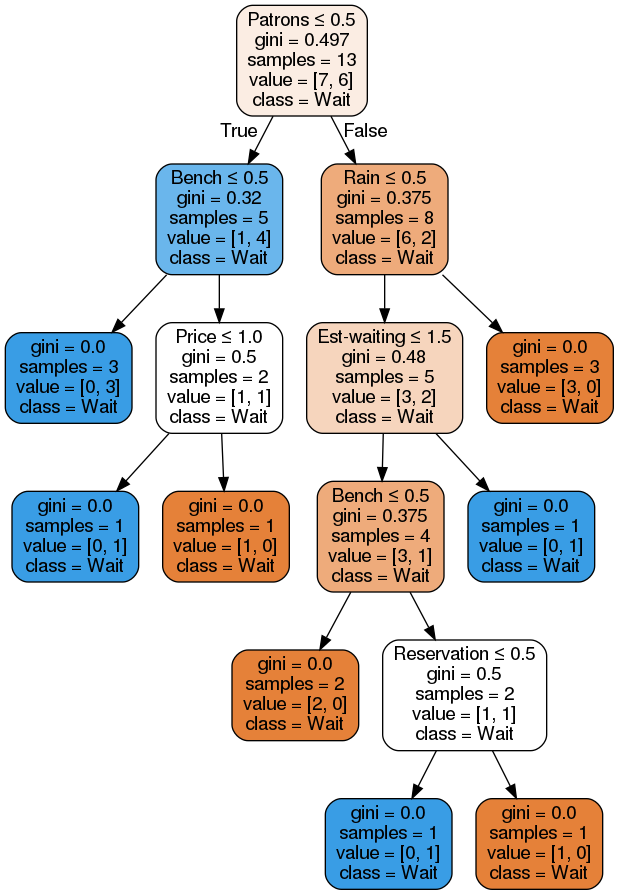
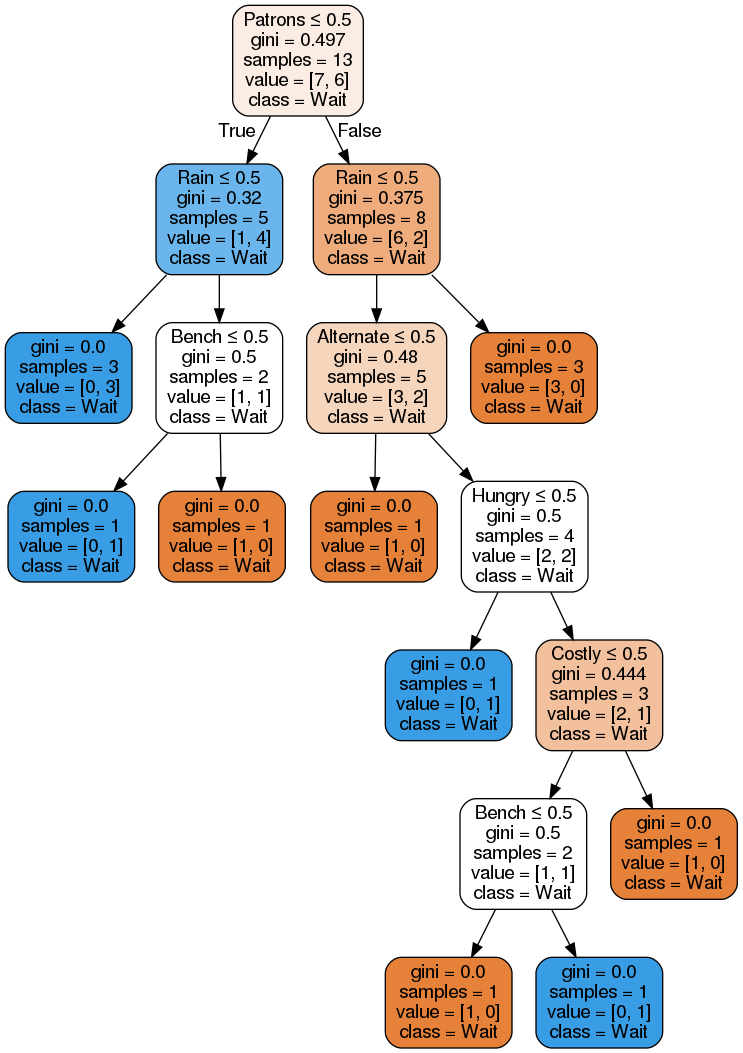
Add files via upload

diff --git a/restaurant.py b/restaurant.py
@@ -6,22 +6,22 @@ import pandas as pd
 import random
 
 data = pd.read_csv('restaurant.csv')
-feature_cols = ['Alternate','Bench','Hungry','Est-waiting','Price','Rain','Reservation','Patrons']
+feature_cols = ['Alternate','Bench','Hungry','Waiting','Costly','Rain','Reservation','Patrons']
 # convert the string categorical values into an integer code using factorize method of the pandas library.
 data['Alternate'],_ = pd.factorize(data['Alternate'])
 data['Bench'],_ = pd.factorize(data['Bench'])
 data['Hungry'],_ = pd.factorize(data['Hungry'])
 data['Patrons'],_ = pd.factorize(data['Patrons'])
-data['Price'],_ = pd.factorize(data['Price'])
+data['Costly'],_ = pd.factorize(data['Costly'])
 data['Rain'],_ = pd.factorize(data['Rain'])
 data['Reservation'],_ = pd.factorize(data['Reservation'])
-data['Est-waiting'],_ = pd.factorize(data['Est-waiting'])
+data['Waiting'],_ = pd.factorize(data['Waiting'])
 
 X = data[feature_cols]
 y = data['Wait']
 
 #Create the instance of DecisionTreeClassifier with max_depth = None i.e till leaf node & random_state=0 for maintaining state
-tree_clf = DecisionTreeClassifier(max_depth=None, random_state=0)
+tree_clf = DecisionTreeClassifier(max_depth=None, random_state=1)
 
 #train the classifier
 tree_clf.fit(X, y)
@@ -32,10 +32,12 @@ alternate = int(input("Alternate: "))
 bench = int(input("Bench: "))
 hungry = int(input("Hungry: "))
 rain = int(input("Rain: "))
+waiting = int(input("Waiting: "))
+costly = int(input("Costly: "))
 reservation = int(input("Reservation: "))
 patrons = int(input("Patrons: "))
 #predict
-y_predict = tree_clf.predict([[alternate,bench,hungry,1,0,rain,reservation,patrons]])
+y_predict = tree_clf.predict([[alternate,bench,hungry,waiting,costly,rain,reservation,patrons]])
 print("As per situaution it is better to",y_predict)
 
 #visualization
